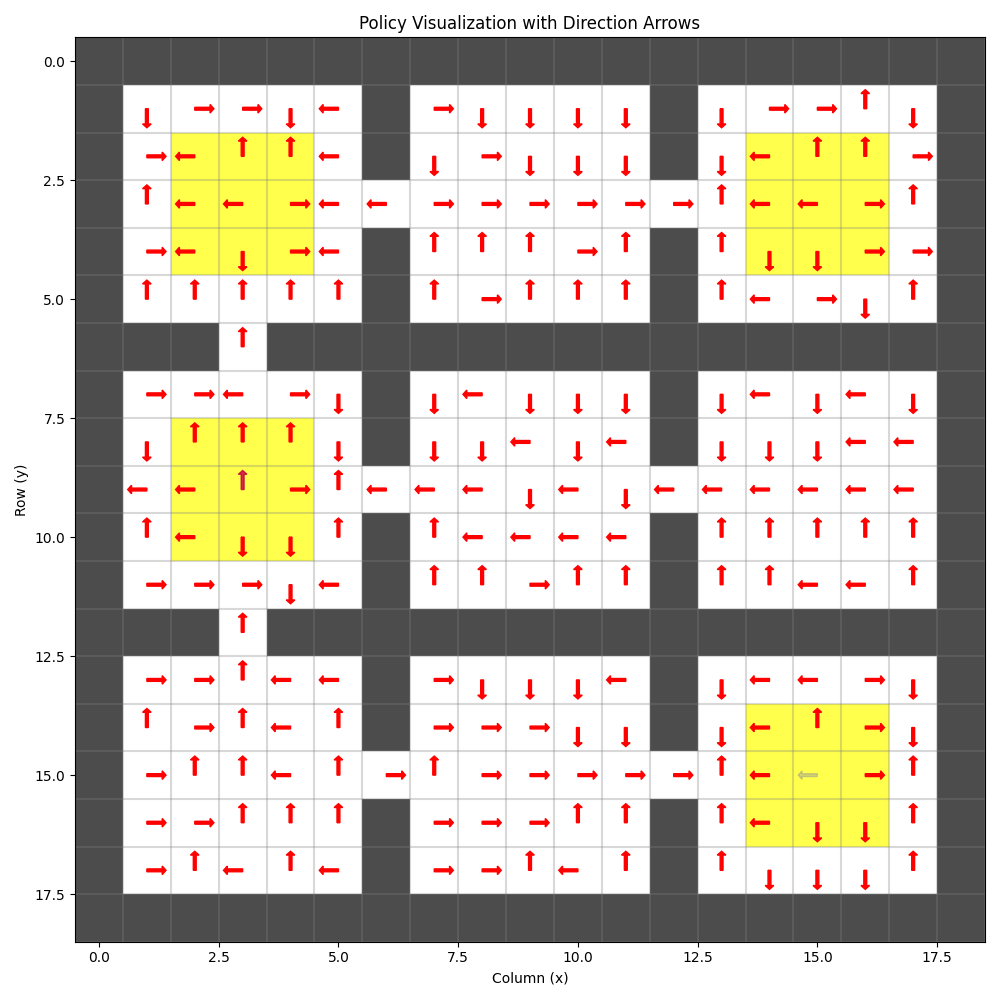
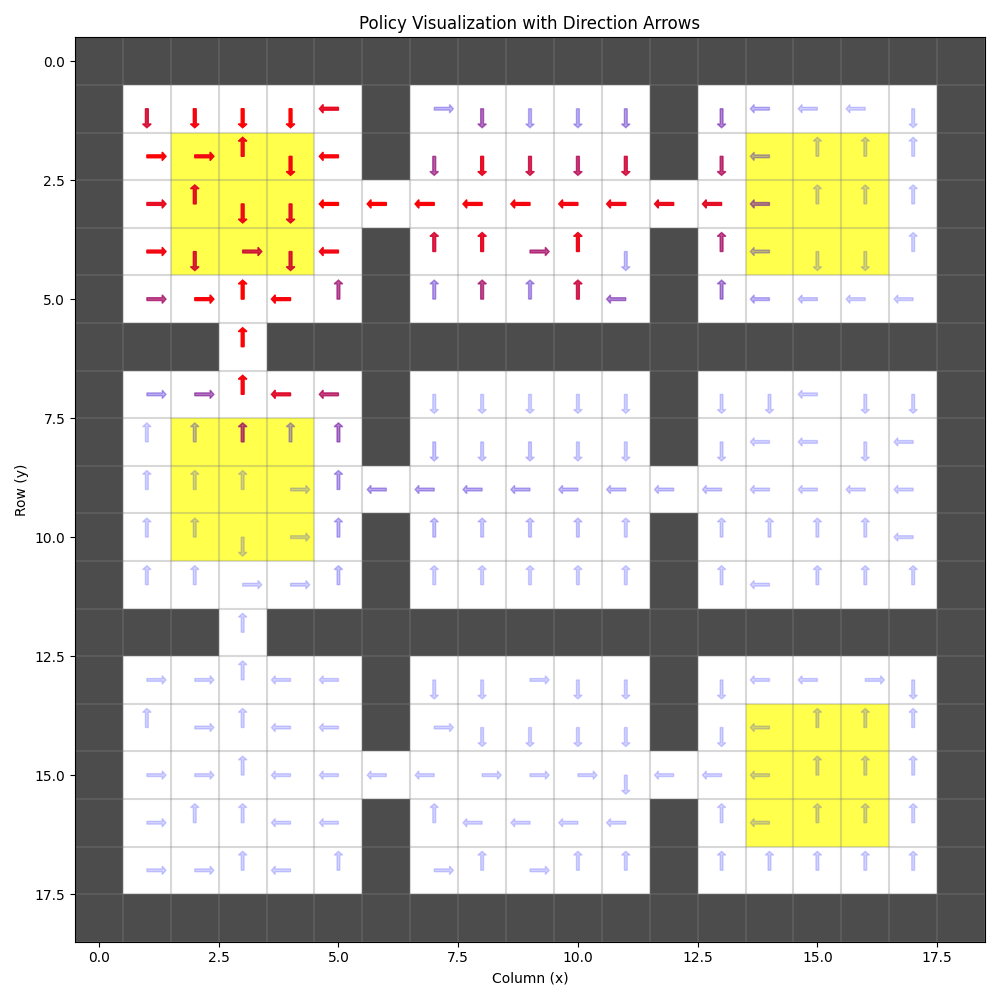
zero reward penalty for other goals

diff --git a/project/boolean_task.py b/project/boolean_task.py
@@ -20,7 +20,7 @@ class GoalOrientedBase:
         self.r_min = r_min
         self.G = set()
         self.epsilon = 0.5
-        self.decay_rate = 0.99
+        self.decay_rate = 0.995
 
     def _random_condition(self):
         return not self.G or random.random() < self.epsilon
@@ -67,20 +67,23 @@ class GoalOrientedBase:
                 action = self.select_action(state)
                 next_state, reward, done = self.env.step(action)
 
-                if mis_coverage_terrain is not None and done > 0 and not mis_coverage_terrain[next_state[0], next_state[1]]:
-                    self._add_goal(next_state)
-                    done = 0
+                if mis_coverage_terrain is not None and done >= 2 and not mis_coverage_terrain[next_state[0], next_state[1]]:
+                    done = 1
 
-                # Update Q-values for each subgoal
-                if self.G:
-                    self._train(state, action, reward, next_state, done)
                 if done > 0:
                     # Add the current state to the set of subgoals
                     self._add_goal(next_state)
+                # Update Q-values for each subgoal
+                if self.G:
+                    self._train(state, action, reward, next_state, done)
+                
+                if done >= 2: 
                     break
                 
                 state = next_state
                 steps += 1
+                self.epsilon = max(self.epsilon * self.decay_rate, 0.05)
+
             if episode % 100 == 0:
                 print(f"Episode {episode} completed with {len(self.G)} goals steps {steps}/{max_steps_per_episode} why {done}")
                     
@@ -102,27 +105,29 @@ class GoalOrientedQLearning(GoalOrientedBase):
         """Get Q-value for a state-subgoal-action triple."""
         goal_tensor = torch.IntTensor(list(self.G))
         sx, sy = tuple(state[i].expand(goal_tensor.shape[0]) for i in range(2))
-        action = torch.IntTensor([action]).expand(goal_tensor.shape[0])
+        action_tensor = torch.IntTensor([action]).expand(goal_tensor.shape[0])
         nx, ny = tuple(next_state[i].expand(goal_tensor.shape[0]) for i in range(2))
-        current_q = self.Q[sx, sy, goal_tensor[:, 0], goal_tensor[:, 1], action]
+        current_q = self.Q[sx, sy, goal_tensor[:, 0], goal_tensor[:, 1], action_tensor]
 
         if done > 0:
+            goal_eq = -1
             for i in range(goal_tensor.shape[0]):
                 if torch.equal(next_state, goal_tensor[i]):
-                    goal_non_eq = list(range(i))+list(range(i+1, goal_tensor.shape[0]))
+                    goal_eq = i
                     break
-            else:
-                goal_non_eq = list(range(goal_tensor.shape[0]))
+
+            if goal_eq == -1:
+                raise ValueError("Goal not found in subgoals, why training?")
             
-            delta = reward - current_q
-            delta[goal_non_eq] = self.r_min
+            delta = torch.zeros_like(current_q)
+            delta[goal_eq] = reward - current_q[goal_eq]
         else:
             next_q = self.Q[nx, ny, goal_tensor[:, 0], goal_tensor[:, 1]]
             max_next_q = next_q.max(1).values
             delta = reward + self.gamma * max_next_q - current_q
             
         new_q = current_q + self.learning_rate * delta
-        self.Q[sx, sy, goal_tensor[:, 0], goal_tensor[:, 1], action] = new_q
+        self.Q[sx, sy, goal_tensor[:, 0], goal_tensor[:, 1], action_tensor] = new_q
 
     def _save_progress(self):
         torch.save(self.Q, f"project/static/goal-q.pt")
@@ -134,6 +139,8 @@ class GoalOrientedQLearning(GoalOrientedBase):
             return random.choice(self.actions)
          # Choose the best action based on current goals
         visible_goals, _ = self._remove_goal()
+        if not visible_goals:
+            return random.choice(self.actions)
         goal_tensor = torch.IntTensor(visible_goals)
         sx, sy = tuple(state[i].expand(goal_tensor.shape[0]) for i in range(2))
         qs = self.Q[sx, sy, goal_tensor[:, 0], goal_tensor[:, 1]]

diff --git a/project/learning.py b/project/learning.py
@@ -185,18 +185,18 @@ class DFA_dijkstra(DFA_Task):
         pass
 
 if __name__ == "__main__":
-    room = load_room("saved_disc", "1room.pt", 4)
+    room = load_room("saved_disc", "9room.pt", 4)
     if 'starting' in room.goals:
         starting = room.goals.pop('starting')
     print(room.goals.keys())
     room.start()
     goal_learner = GoalOrientedQLearning(room)
-    goal_learner.train_episodes()
+    goal_learner.train_episodes(num_episodes=2000, max_steps_per_episode=250)
 
     at = AtomicTask("F(goal_2)", room)
     # at = AtomicTask("F goal_2", room)
     print(at)
     policy = at.get_policy(goal_learner)
-    room.draw_policy(policy, fn="1room_goal_2")
+    room.draw_policy(policy, fn="9room_goal_2")
     # print(at.formula)
     # dfa_task = DFA_Task("(G(t1) & t2)", {"t1": AtomicTask("F(goal_2)", room), "t2": AtomicTask("F(!goal_1)", room)})

diff --git a/project/reach_avoid_tabular.py b/project/reach_avoid_tabular.py
@@ -100,7 +100,7 @@ class Room:
 
         if label >= 2:
             return new_loc, self._reward_lev, label
-        return new_loc, -0.01, 0     # -0.01 for no goal reached
+        return new_loc, 0, 0     # -0.01 for no goal reached
     
     def draw_policy(self, q_values, mask=None, fn="policy"):
         """
